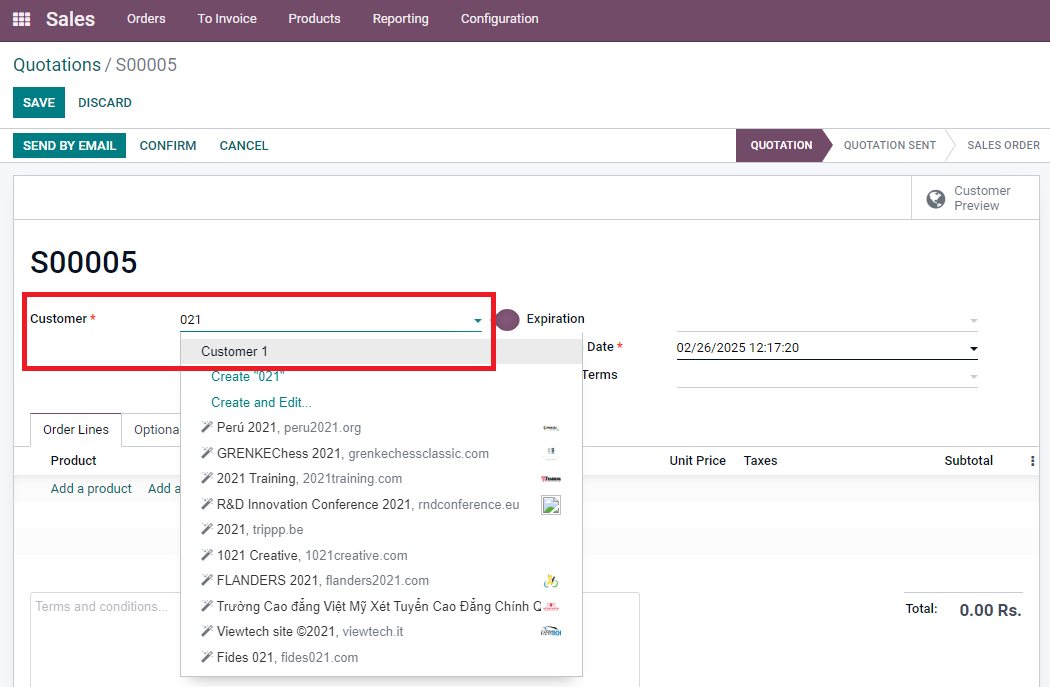
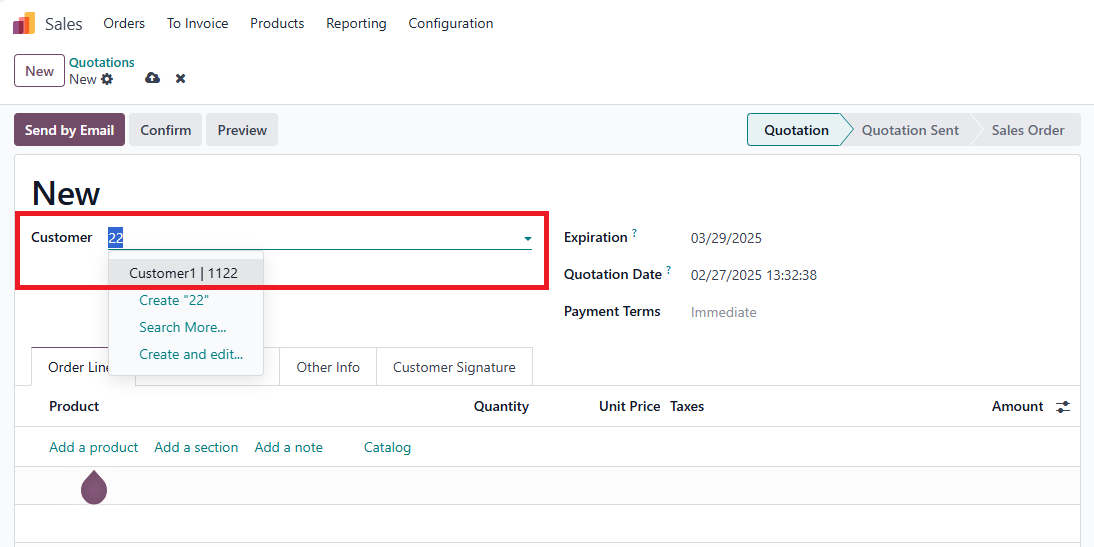
[Add] mh_partner_search_and_display_multiple_field v18

diff --git a/mh_partner_search_and_display_multiple_field/static/description/index.html b/mh_partner_search_and_display_multiple_field/static/description/index.html
@@ -14,18 +14,18 @@
     </div>
 </section>
 
-<section class="oe_container oe_dark">
-    <div class="oe_row oe_spaced">
-        <div class="oe_span12">
-            <h2 class="oe_slogan">How It Works</h2>
-        </div>
-        <div class="oe_span12">
-          <div class="mx-auto">
-             <a href="https://youtu.be/WRoR_FOxcTs" target="_blank" class="shadow rounded py-3 px-4 mb-2 s_tooltip_tabs_tooltip_image s_figure_link text-center btn" style="border-width:1px; border-style:solid; border-color:#1b325f; color:#1b325f; text-decoration:none; border-radius:0.25rem !important; display:inline-block; font-size:20px; font-weight:bold; width:100%"><span class="align-middle">Click here to watch video</span></a>
-          </div>
-       </div>
-    </div>
-</section>
+<!--<section class="oe_container oe_dark">-->
+<!--    <div class="oe_row oe_spaced">-->
+<!--        <div class="oe_span12">-->
+<!--            <h2 class="oe_slogan">How It Works</h2>-->
+<!--        </div>-->
+<!--        <div class="oe_span12">-->
+<!--          <div class="mx-auto">-->
+<!--             <a href="https://youtu.be/WRoR_FOxcTs" target="_blank" class="shadow rounded py-3 px-4 mb-2 s_tooltip_tabs_tooltip_image s_figure_link text-center btn" style="border-width:1px; border-style:solid; border-color:#1b325f; color:#1b325f; text-decoration:none; border-radius:0.25rem !important; display:inline-block; font-size:20px; font-weight:bold; width:100%"><span class="align-middle">Click here to watch video</span></a>-->
+<!--          </div>-->
+<!--       </div>-->
+<!--    </div>-->
+<!--</section>-->
 
 <section class="oe_container">
     <div class="oe_row oe_spaced">
